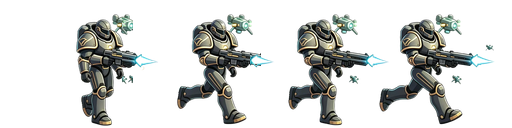
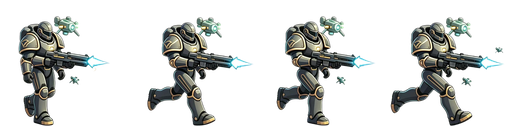
B1141: re-sliced hero sheets by alpha gap detection (fixes clipped frames), per-hero unified scale, cache 1062

diff --git a/public/红色警戒.html b/public/红色警戒.html
@@ -127,7 +127,7 @@ select#map-sel{background:rgba(30,30,50,.9);color:#fff;border:1px solid rgba(255
 <div id="lobby">
   <div class="lb">
     <h2>🌐 联机对战</h2>
-    <div style="text-align:center;color:#556;font-size:10px;margin:-8px 0 8px">版本 B1140</div>
+    <div style="text-align:center;color:#556;font-size:10px;margin:-8px 0 8px">版本 B1141</div>
     <div id="lb-main">
       <div class="lrow"><label>昵称</label><input id="lb-name" maxlength="12" placeholder="输入昵称"></div>
       <div class="lrow"><label>服务器</label><input id="lb-server" placeholder="部署后自动填；本机需手填" style="width:200px"></div>
@@ -207,7 +207,7 @@ function techUnlocked(id,side){
 }
 var unitImgs={},corpses=[];
 var UI_ST=[['','_i'],['_m','_m'],['_a','_a'],['_d','_d'],['_s','_s'],['_k','_k']];
-var AV='1061';
+var AV='1062';
 var ART_U=['rifle','light','heavy','dog','rocket','apc','heli','miner','ship','carrier','hero','tanya','sniper','weather','stalker'];
 function loadUnitImgs(){
   ART_U.forEach(function(k){
@@ -4788,6 +4788,7 @@ if(location.search.indexOf('test=v2')>=0){
   })();
 }
 </script></body></html>
+
 
 
 
